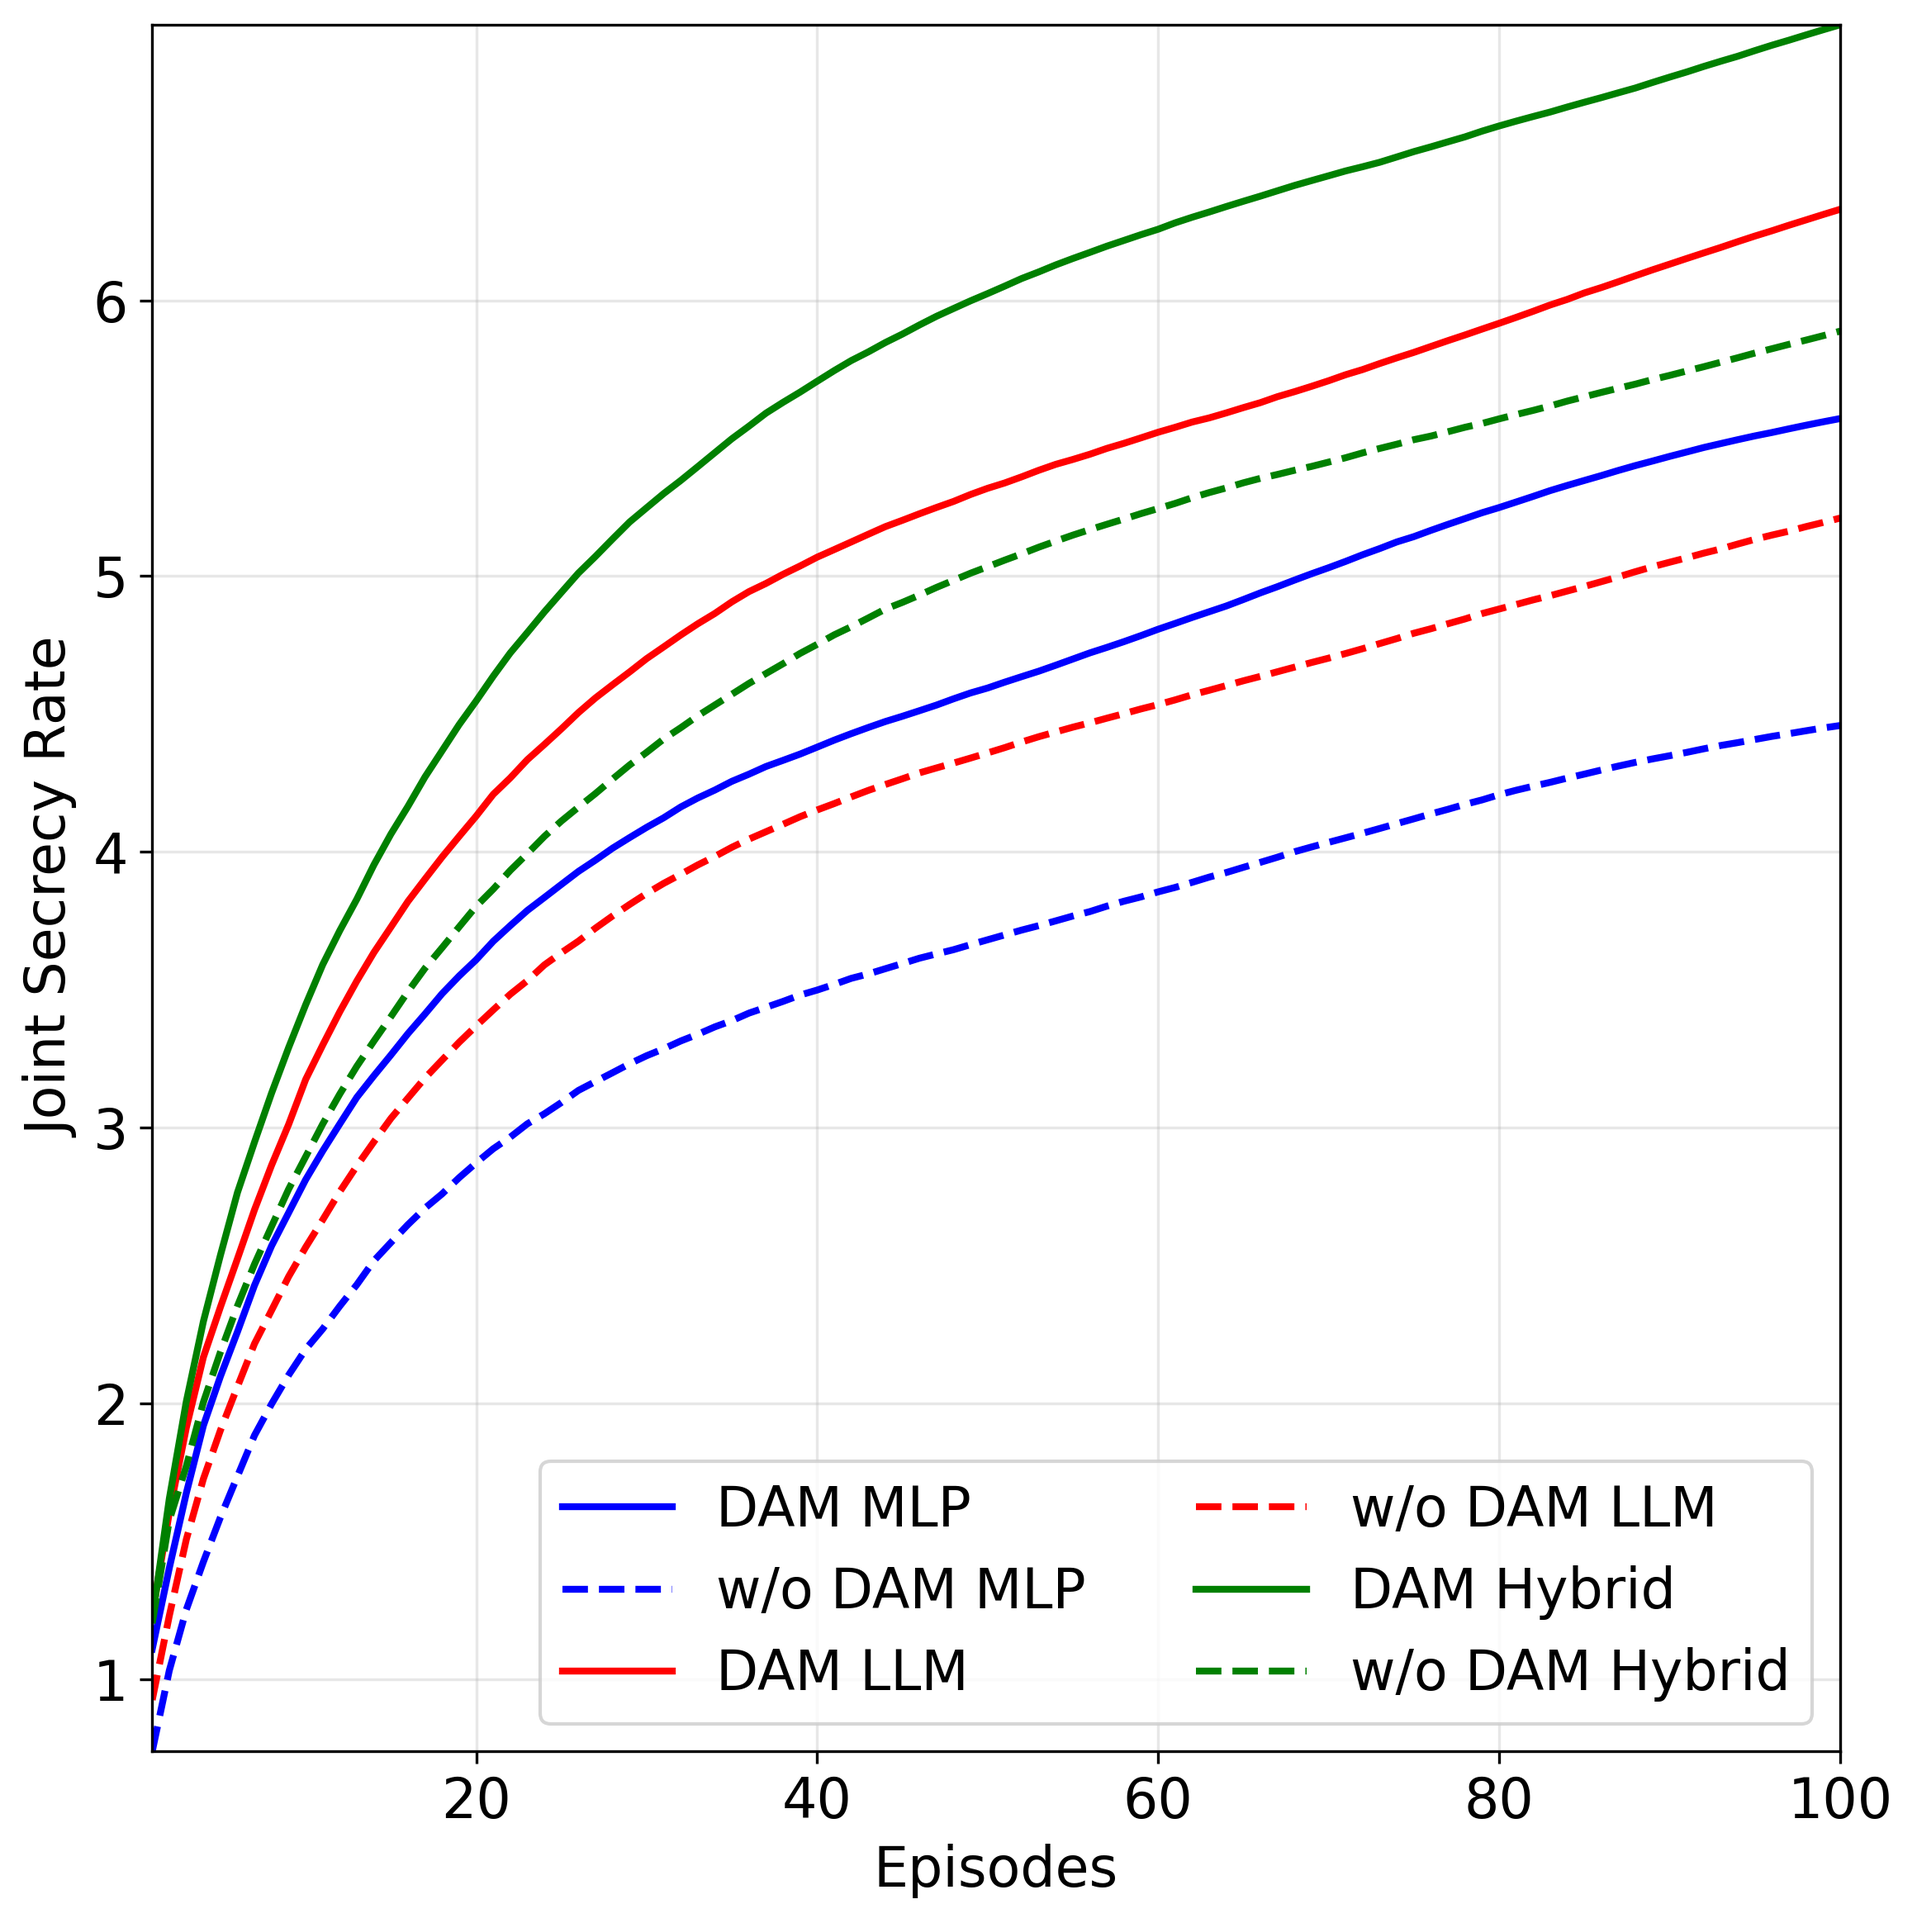
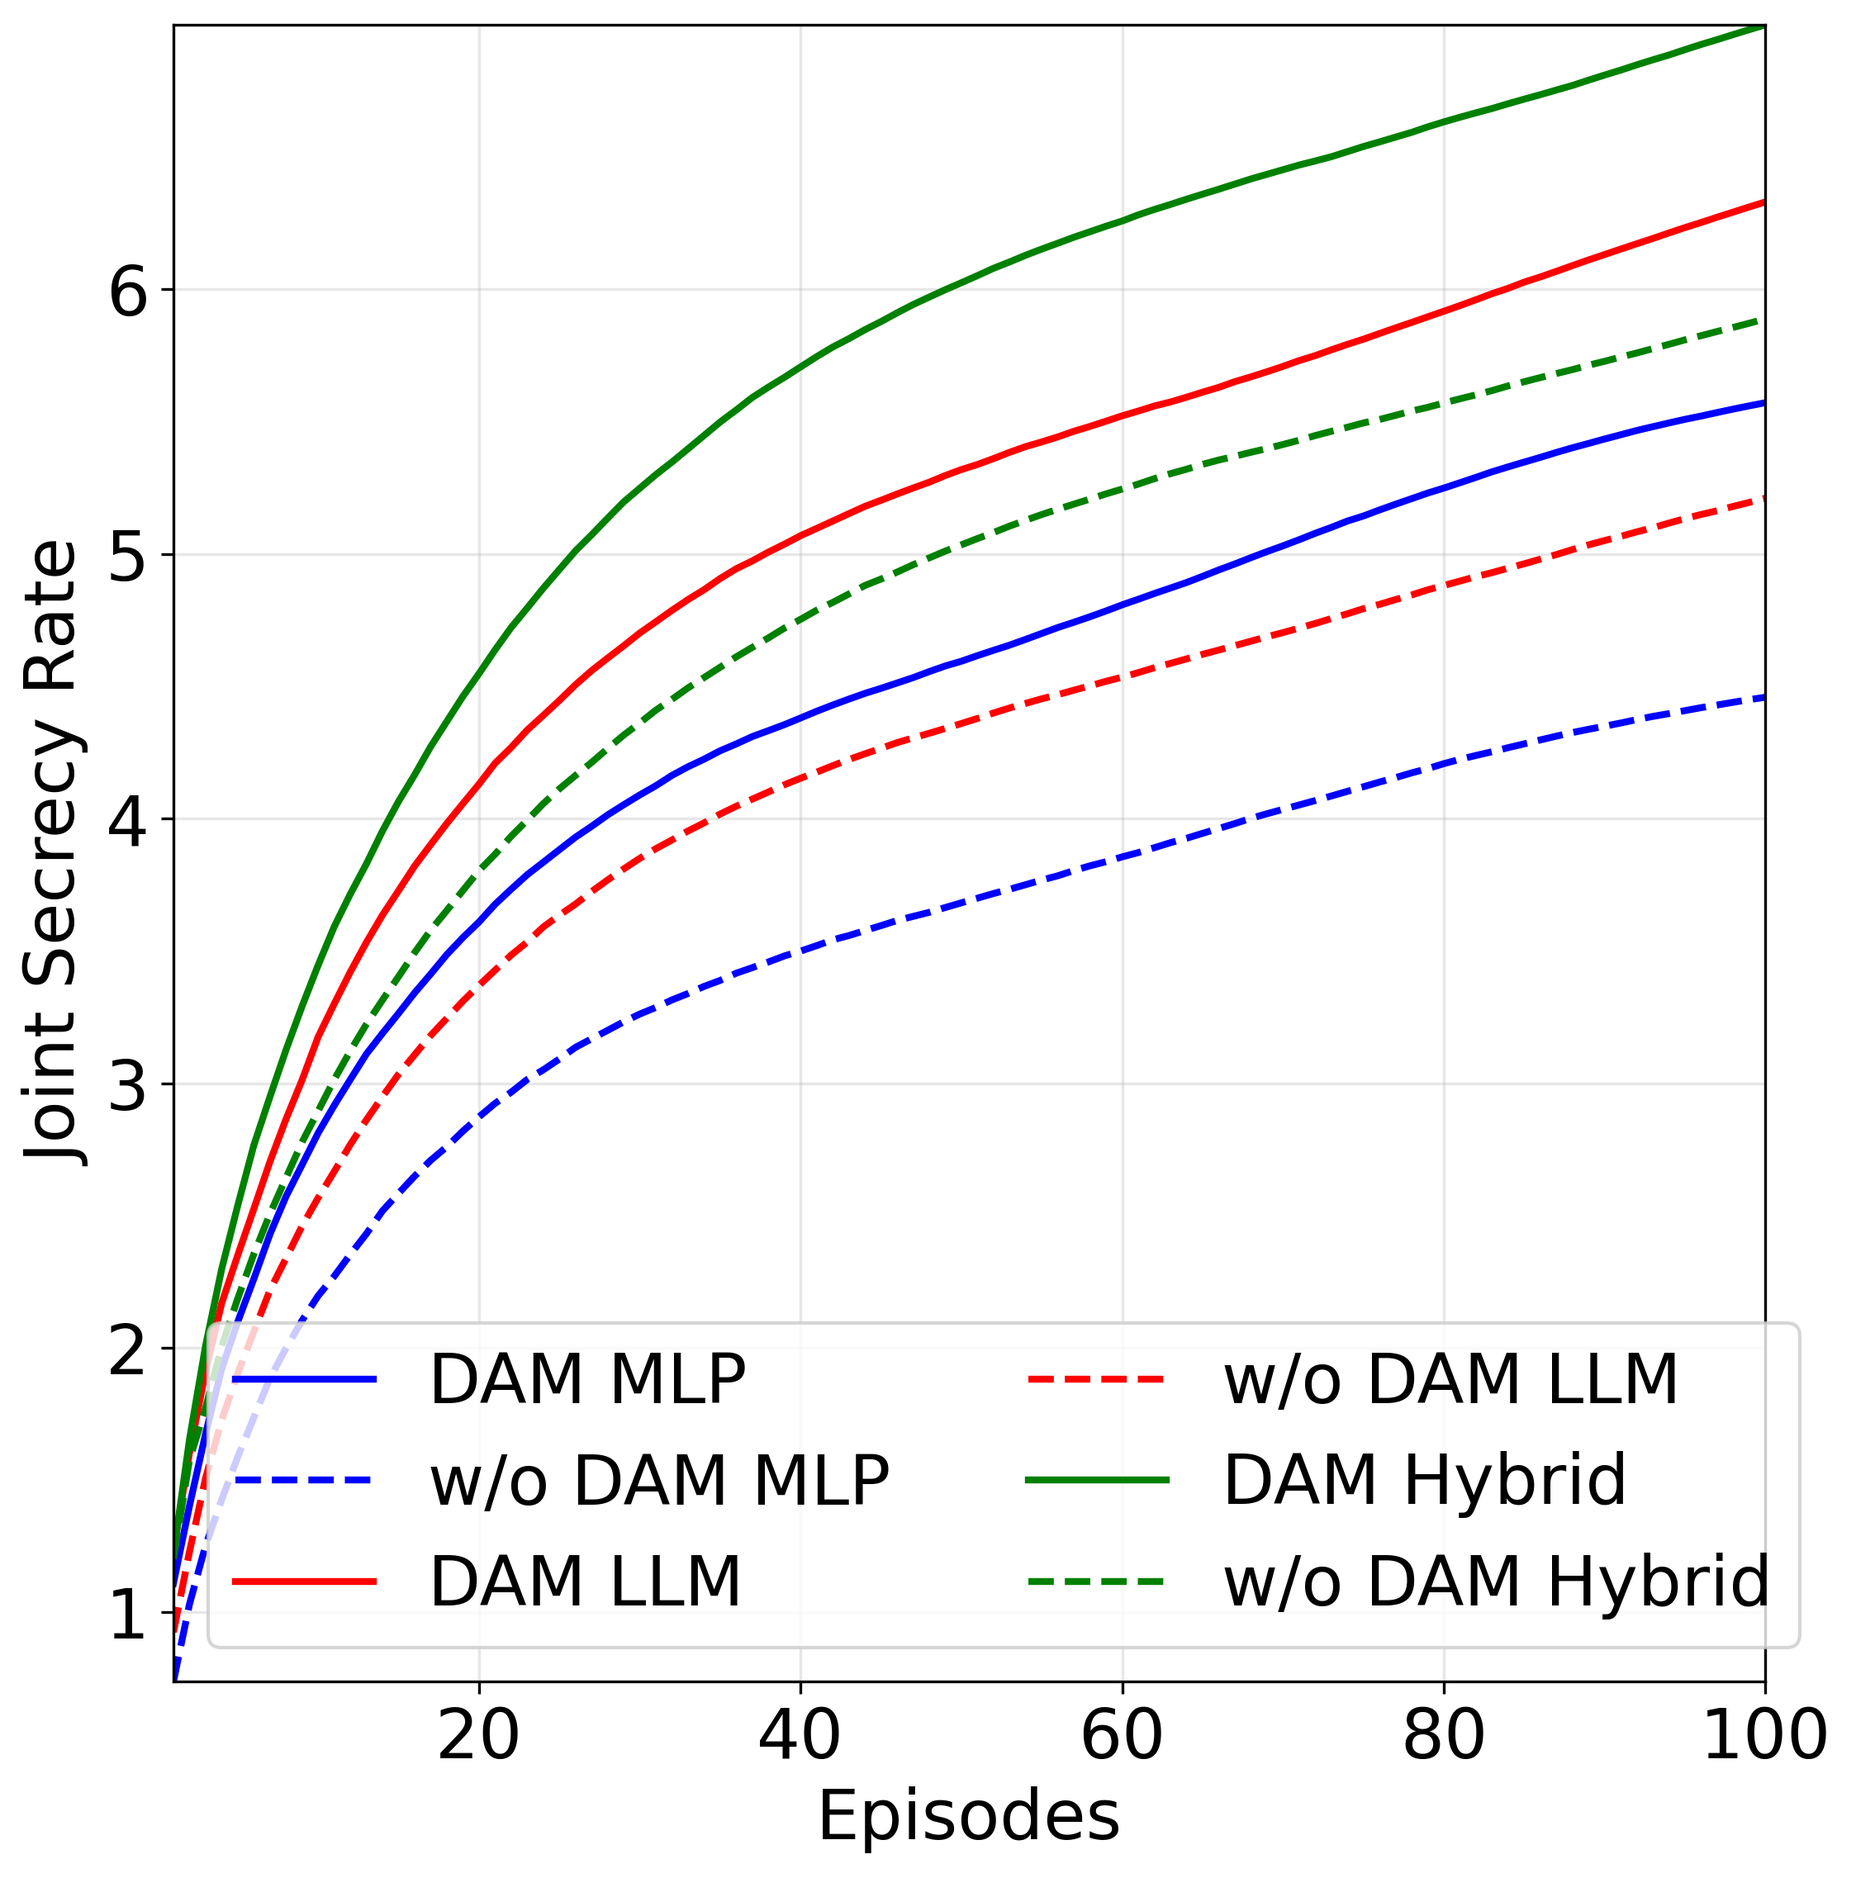
feat(plots): raise global and explicit font sizes to 20 for all figures

diff --git a/comprehensive_plots.py b/comprehensive_plots.py
@@ -12,11 +12,11 @@ matplotlib.use('Agg')  # Use non-GUI backend for headless execution
 
 # Global font configuration
 plt.rcParams.update({
-    'font.size': 16,
-    'axes.labelsize': 16,
-    'xtick.labelsize': 16,
-    'ytick.labelsize': 16,
-    'legend.fontsize': 16
+    'font.size': 20,
+    'axes.labelsize': 20,
+    'xtick.labelsize': 20,
+    'ytick.labelsize': 20,
+    'legend.fontsize': 20
 })
 
 import torch
@@ -139,10 +139,10 @@ def plot_convergence_antennas_power():
     plt.plot(episodes, hybrid_dam, 'g-', label='DAM Hybrid', linewidth=2.0)
     plt.plot(episodes, hybrid_no_dam, 'g--', label='w/o DAM Hybrid', linewidth=2.0)
     
-    plt.xlabel('Episodes', fontsize=16)
-    plt.ylabel('Joint Secrecy Rate', fontsize=16)
+    plt.xlabel('Episodes', fontsize=20)
+    plt.ylabel('Joint Secrecy Rate', fontsize=20)
     # No title per request
-    plt.legend(fontsize=16, ncol=2)
+    plt.legend(fontsize=20, ncol=2)
     plt.grid(True, alpha=0.3)
     plt.xlim(episodes.min(), episodes.max())
     ax = plt.gca()
@@ -211,9 +211,9 @@ def plot_rewards_vs_vus():
         ax_left.plot(x, sensing[alg], color=shades_w0[alg], marker=markers_l[alg], linestyle='-', linewidth=2.0, markersize=msize, label=f'ω=0 {alg}')
         ax_right.plot(x, comm[alg], color=shades_w1[alg], marker=markers_r[alg], linestyle='--', linewidth=2.0, markersize=msize, label=f'ω=1 {alg}')
 
-    ax_left.set_xlabel('Number of Vehicular Users V', fontsize=16)
-    ax_left.set_ylabel('Sensing Secrecy Rate', fontsize=16, color=color_w0_axis)
-    ax_right.set_ylabel('Communication Secrecy Rate', fontsize=16, color=color_w1_axis)
+    ax_left.set_xlabel('Number of Vehicular Users V', fontsize=20)
+    ax_left.set_ylabel('Sensing Secrecy Rate', fontsize=20, color=color_w0_axis)
+    ax_right.set_ylabel('Communication Secrecy Rate', fontsize=20, color=color_w1_axis)
 
     # Match axis colors
     ax_left.tick_params(axis='y', colors=color_w0_axis)
@@ -243,7 +243,7 @@ def plot_rewards_vs_vus():
     # Legend fontsize 16
     lines_l, labels_l = ax_left.get_legend_handles_labels()
     lines_r, labels_r = ax_right.get_legend_handles_labels()
-    ax_left.legend(lines_l + lines_r, labels_l + labels_r, loc='upper right', fontsize=16, ncol=2)
+    ax_left.legend(lines_l + lines_r, labels_l + labels_r, loc='upper right', fontsize=20, ncol=2)
 
     # Force exact x-axis limits - no padding
     ax = plt.gca()
@@ -335,13 +335,13 @@ def plot_rewards_vs_targets():
         ax_left.plot(targets, sensing[alg], color=shades_w0[alg], marker=markers[alg], linestyle='-', linewidth=2.5, markersize=msize, label=f'ω=0 {alg}')
         ax_right.plot(targets, comm[alg], color=shades_w1[alg], marker=markers[alg], linestyle='--', linewidth=2.5, markersize=msize, label=f'ω=1 {alg}')
 
-    ax_left.set_xlabel('Number of Sensing Targets G', fontsize=16)
-    ax_left.set_ylabel('Sensing Secrecy Rate', fontsize=16, color=color_w0_axis)
-    ax_right.set_ylabel('Communication Secrecy Rate', fontsize=16, color=color_w1_axis)
+    ax_left.set_xlabel('Number of Sensing Targets G', fontsize=20)
+    ax_left.set_ylabel('Sensing Secrecy Rate', fontsize=20, color=color_w0_axis)
+    ax_right.set_ylabel('Communication Secrecy Rate', fontsize=20, color=color_w1_axis)
 
-    ax_left.tick_params(axis='y', colors=color_w0_axis, labelsize=16)
-    ax_right.tick_params(axis='y', colors=color_w1_axis, labelsize=16)
-    ax_left.tick_params(axis='x', labelsize=16)
+    ax_left.tick_params(axis='y', colors=color_w0_axis, labelsize=20)
+    ax_right.tick_params(axis='y', colors=color_w1_axis, labelsize=20)
+    ax_left.tick_params(axis='x', labelsize=20)
     ax_left.spines['left'].set_color(color_w0_axis)
     ax_right.spines['right'].set_color(color_w1_axis)
 
@@ -366,7 +366,7 @@ def plot_rewards_vs_targets():
     # Combined legend inside plot box at bottom
     lines_l, labels_l = ax_left.get_legend_handles_labels()
     lines_r, labels_r = ax_right.get_legend_handles_labels()
-    ax_left.legend(lines_l + lines_r, labels_l + labels_r, loc='lower center', fontsize=16, ncol=3, frameon=True, 
+    ax_left.legend(lines_l + lines_r, labels_l + labels_r, loc='lower center', fontsize=20, ncol=3, frameon=True, 
                    fancybox=True, shadow=True, framealpha=0.9)
 
     plt.tight_layout()
@@ -410,12 +410,12 @@ def plot_secrecy_vs_ris_elements():
     plt.plot(ris_elements, without_ris_data['LLM'], 'r:', linewidth=2.5, label='LLM w/o RIS')
     plt.plot(ris_elements, without_ris_data['Hybrid'], 'g:', linewidth=2.5, label='Hybrid w/o RIS')
 
-    plt.xlabel('Number of RIS Elements', fontsize=16)
-    plt.ylabel('Joint Secrecy Rate (bps/Hz)', fontsize=16)
+    plt.xlabel('Number of RIS Elements', fontsize=20)
+    plt.ylabel('Joint Secrecy Rate (bps/Hz)', fontsize=20)
 
-    plt.legend(fontsize=16, ncol=1, frameon=True, fancybox=True, shadow=True, framealpha=0.9, loc='upper left')
+    plt.legend(fontsize=20, ncol=1, frameon=True, fancybox=True, shadow=True, framealpha=0.9, loc='upper left')
     ax = plt.gca()
-    ax.tick_params(labelsize=16)
+    ax.tick_params(labelsize=20)
 
     plt.grid(True, alpha=0.3)
     ax = plt.gca()
@@ -458,9 +458,9 @@ def plot_secrecy_vs_power():
     plt.plot(power_dbm, secrecy_hyb_dam, 'g-o', linewidth=2.0, label='DAM Hybrid')
     plt.plot(power_dbm, secrecy_hyb_no, 'g--s', linewidth=2.0, label='w/o DAM Hybrid')
 
-    plt.xlabel('Total Power (dBm)', fontsize=16)
-    plt.ylabel('Joint Secrecy Rate (bps/Hz)', fontsize=16)
-    plt.legend(fontsize=16, ncol=2)
+    plt.xlabel('Total Power (dBm)', fontsize=20)
+    plt.ylabel('Joint Secrecy Rate (bps/Hz)', fontsize=20)
+    plt.legend(fontsize=20, ncol=2)
     plt.grid(True, alpha=0.3)
     
     # MATLAB-style appearance
@@ -508,9 +508,9 @@ def plot_secrecy_vs_beta():
     plt.plot(beta_range, secrecy_hyb_dam, 'g-o', linewidth=2.0, label='DAM Hybrid')
     plt.plot(beta_range, secrecy_hyb_no, 'g--s', linewidth=2.0, label='w/o DAM Hybrid')
 
-    plt.xlabel('Beta (β)', fontsize=16)
-    plt.ylabel('Joint Secrecy Rate (bps/Hz)', fontsize=16)
-    plt.legend(fontsize=16, ncol=2)
+    plt.xlabel('Beta (β)', fontsize=20)
+    plt.ylabel('Joint Secrecy Rate (bps/Hz)', fontsize=20)
+    plt.legend(fontsize=20, ncol=2)
     plt.grid(True, alpha=0.3)
     
     # MATLAB-style appearance
@@ -557,9 +557,9 @@ def plot_secrecy_vs_bandwidth():
     plt.plot(bw, vu2_hyb, 'g-o', linewidth=2.0, label='VU=2 Hybrid')
     plt.plot(bw, vu10_hyb, 'g--s', linewidth=2.0, label='VU=10 Hybrid')
 
-    plt.xlabel('Bandwidth (MHz)', fontsize=16)
-    plt.ylabel('Joint Secrecy Rate (bps/Hz)', fontsize=16)
-    plt.legend(fontsize=16, ncol=2)
+    plt.xlabel('Bandwidth (MHz)', fontsize=20)
+    plt.ylabel('Joint Secrecy Rate (bps/Hz)', fontsize=20)
+    plt.legend(fontsize=20, ncol=2)
     plt.grid(True, alpha=0.3)
     
     # MATLAB-style appearance
@@ -608,9 +608,9 @@ def plot_secrecy_vs_antennas():
     plt.plot(ants, vu2_hyb, 'g-o', linewidth=2.0, label='VU=2 Hybrid')
     plt.plot(ants, vu10_hyb, 'g--s', linewidth=2.0, label='VU=10 Hybrid')
 
-    plt.xlabel('Number of BS Antennas', fontsize=16)
-    plt.ylabel('Joint Secrecy Rate (bps/Hz)', fontsize=16)
-    plt.legend(fontsize=16, ncol=2)
+    plt.xlabel('Number of BS Antennas', fontsize=20)
+    plt.ylabel('Joint Secrecy Rate (bps/Hz)', fontsize=20)
+    plt.legend(fontsize=20, ncol=2)
     plt.grid(True, alpha=0.3)
     
     # MATLAB-style appearance
@@ -653,9 +653,9 @@ def plot_secrecy_rate_convergence():
     plt.plot(episodes, llm_secrecy, 'r--', label='LLM Actor', linewidth=2)
     plt.plot(episodes, hybrid_secrecy, 'g-.', label='Hybrid Actor', linewidth=2)
     
-    plt.xlabel('Episodes', fontsize=16)
-    plt.ylabel('Joint Secrecy Rate (bps/Hz)', fontsize=16)
-    plt.legend(fontsize=16)
+    plt.xlabel('Episodes', fontsize=20)
+    plt.ylabel('Joint Secrecy Rate (bps/Hz)', fontsize=20)
+    plt.legend(fontsize=20)
     plt.grid(True, alpha=0.3)
     
     # MATLAB-style appearance
